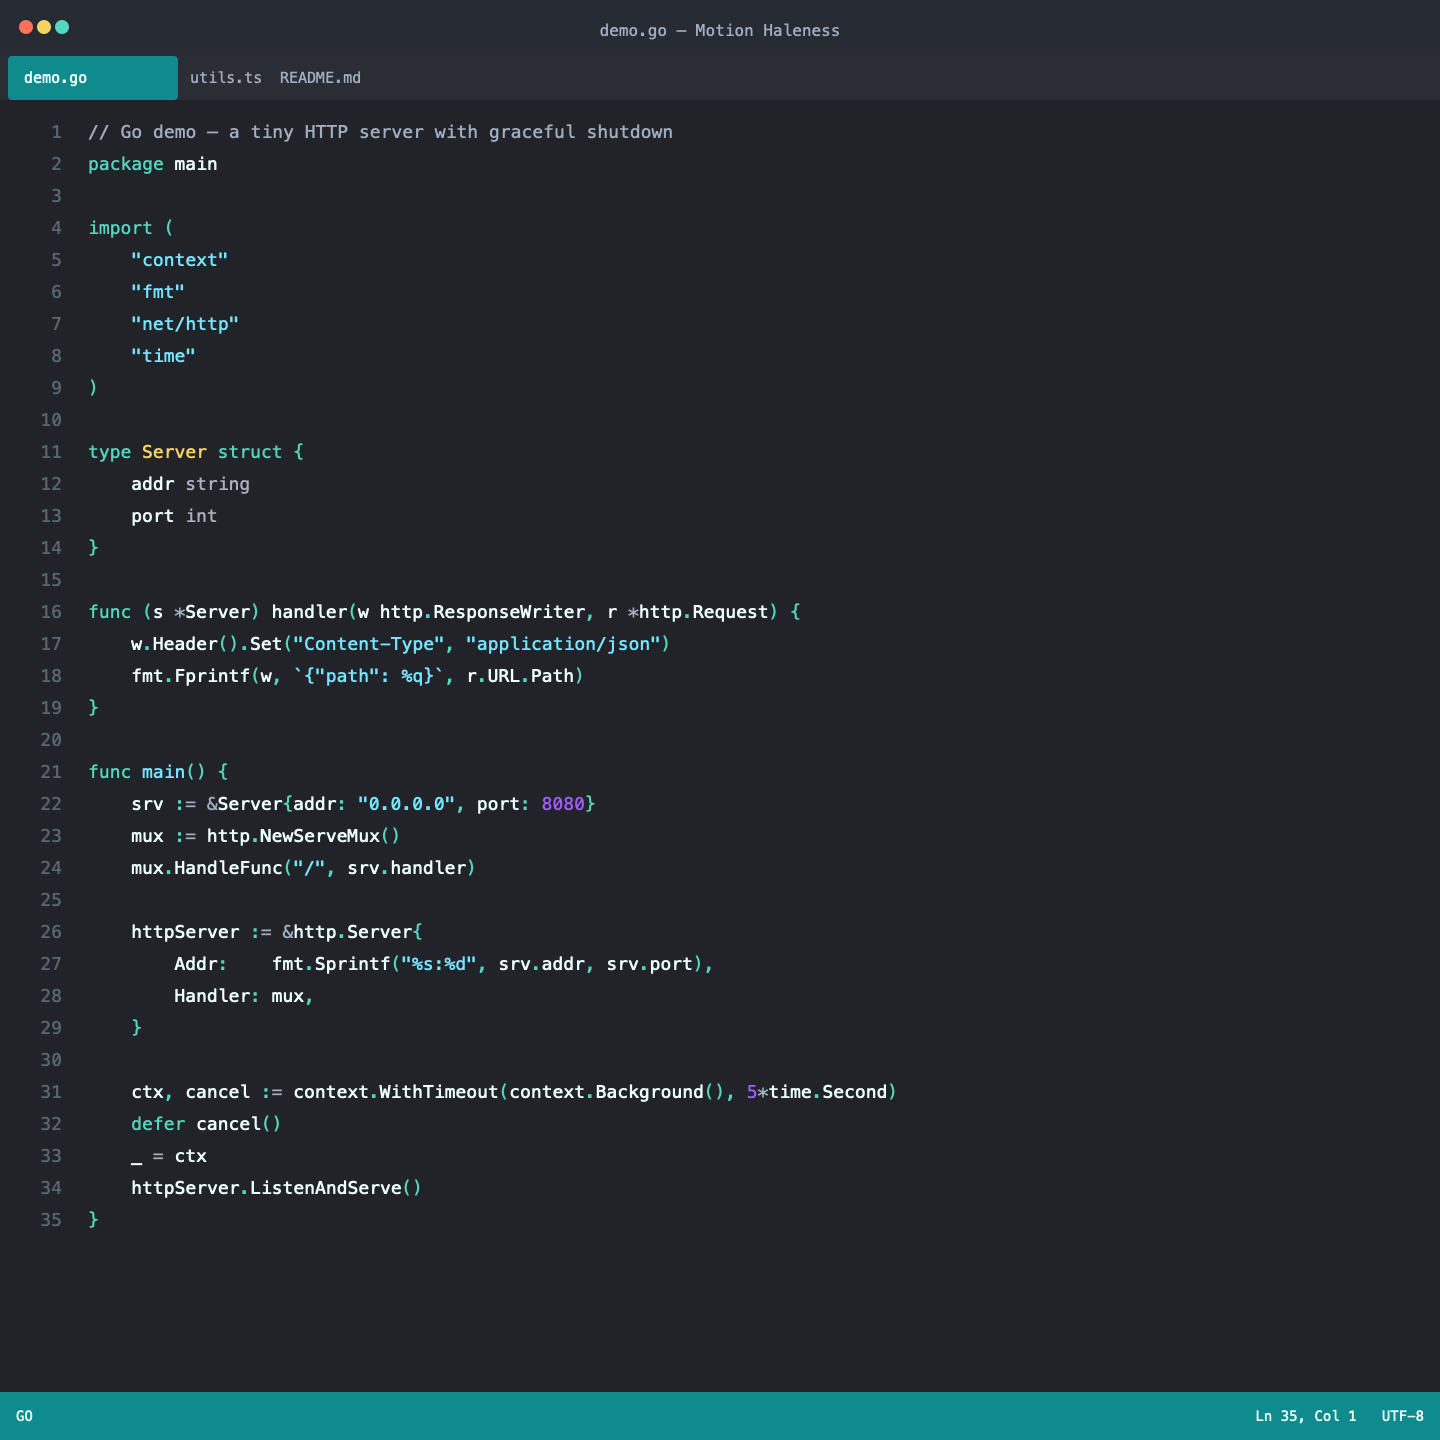
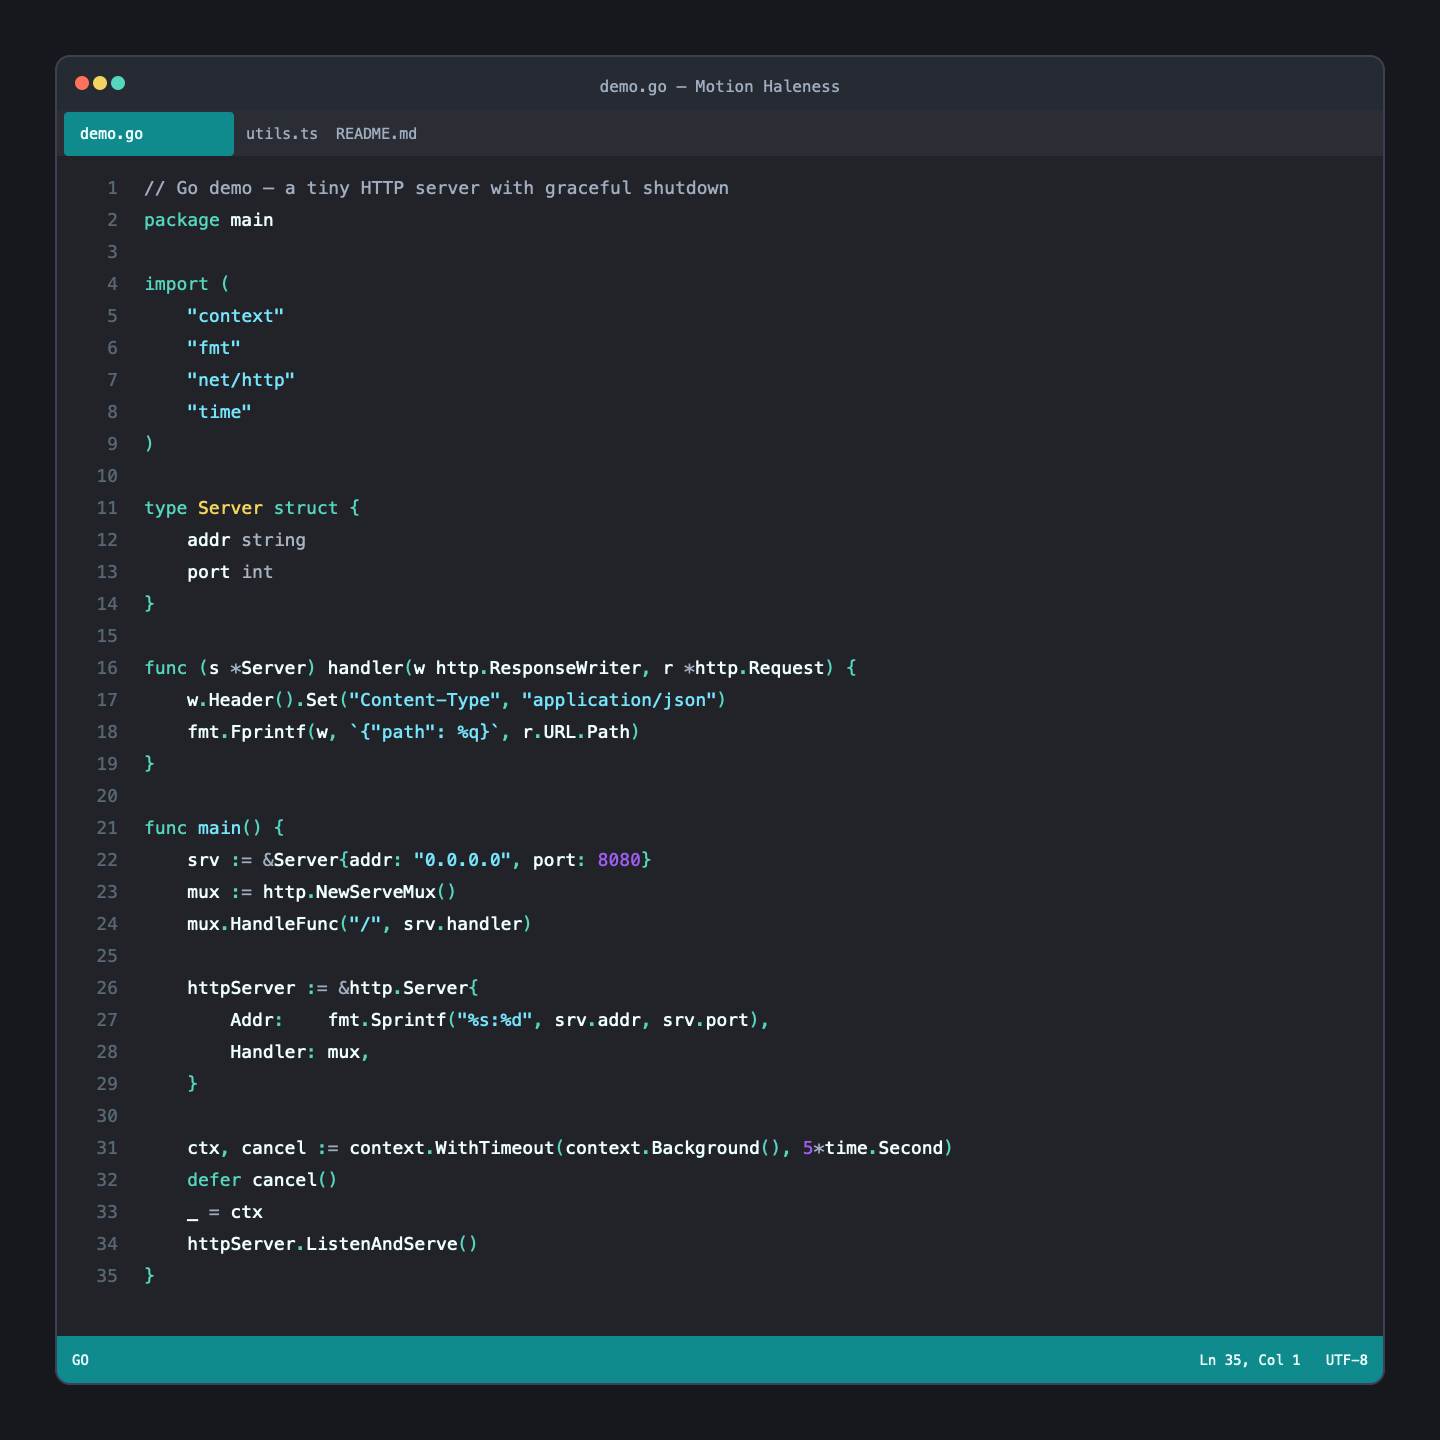
rounded window corners and spacing in screenshots

diff --git a/scripts/generate-screenshots.js b/scripts/generate-screenshots.js
@@ -164,47 +164,56 @@ function buildSvg(langLabel, fileName, code) {
   }
   lines.push(line);
 
+  const PAD = 56;
+  const RADIUS = 14;
+  const winX = PAD;
+  const winY = PAD;
+  const winW = W - 2 * PAD;
+  const winH = H - 2 * PAD;
   const tabBarH = 46;
   const titleBarH = 54;
   const editorY = titleBarH + tabBarH;
   const lineH = 32;
   const fontSize = 18;
-  const codeX = 88;
-  const gutterX = 62;
+  const codeX = winX + 88;
+  const gutterX = winX + 62;
 
   const parts = [];
   parts.push(`<svg xmlns="http://www.w3.org/2000/svg" width="${W}" height="${H}">`);
+  parts.push(`<defs><clipPath id="win"><rect x="${winX}" y="${winY}" width="${winW}" height="${winH}" rx="${RADIUS}"/></clipPath></defs>`);
+  parts.push(`<rect width="${W}" height="${H}" fill="#16181d"/>`);
+  parts.push(`<g clip-path="url(#win)">`);
 
   // title bar
-  parts.push(`<rect width="${W}" height="${titleBarH}" fill="#262A33"/>`);
+  parts.push(`<rect x="${winX}" y="${winY}" width="${winW}" height="${titleBarH}" fill="#262A33"/>`);
   for (const [i, col] of ["#FF715B", "#F4D35E", "#55D6BE"].entries()) {
-    parts.push(`<circle cx="${26 + i * 18}" cy="27" r="7" fill="${col}"/>`);
+    parts.push(`<circle cx="${winX + 26 + i * 18}" cy="${winY + 27}" r="7" fill="${col}"/>`);
   }
   parts.push(
-    `<text x="${W / 2}" y="36" fill="#a0aec0" font-family="${FONT}" font-size="16" text-anchor="middle">${escapeXml(fileName)} &#8212; Motion Haleness</text>`
+    `<text x="${W / 2}" y="${winY + 36}" fill="#a0aec0" font-family="${FONT}" font-size="16" text-anchor="middle">${escapeXml(fileName)} &#8212; Motion Haleness</text>`
   );
 
   // tab bar
-  parts.push(`<rect y="${titleBarH}" width="${W}" height="${tabBarH}" fill="#2b2d34"/>`);
-  parts.push(`<rect x="8" y="${titleBarH + 2}" width="170" height="${tabBarH - 2}" fill="#0F8B8D" rx="4"/>`);
+  parts.push(`<rect x="${winX}" y="${winY + titleBarH}" width="${winW}" height="${tabBarH}" fill="#2b2d34"/>`);
+  parts.push(`<rect x="${winX + 8}" y="${winY + titleBarH + 2}" width="170" height="${tabBarH - 2}" fill="#0F8B8D" rx="4"/>`);
   parts.push(
-    `<text x="24" y="${titleBarH + tabBarH / 2 + 6}" fill="#EEFFFF" font-family="${FONT}" font-size="15">${escapeXml(fileName)}</text>`
+    `<text x="${winX + 24}" y="${winY + titleBarH + tabBarH / 2 + 6}" fill="#EEFFFF" font-family="${FONT}" font-size="15">${escapeXml(fileName)}</text>`
   );
   parts.push(
-    `<text x="190" y="${titleBarH + tabBarH / 2 + 6}" fill="#a0aec0" font-family="${FONT}" font-size="15">utils.ts</text>`
+    `<text x="${winX + 190}" y="${winY + titleBarH + tabBarH / 2 + 6}" fill="#a0aec0" font-family="${FONT}" font-size="15">utils.ts</text>`
   );
   parts.push(
-    `<text x="280" y="${titleBarH + tabBarH / 2 + 6}" fill="#a0aec0" font-family="${FONT}" font-size="15">README.md</text>`
+    `<text x="${winX + 280}" y="${winY + titleBarH + tabBarH / 2 + 6}" fill="#a0aec0" font-family="${FONT}" font-size="15">README.md</text>`
   );
 
   // editor background
-  parts.push(`<rect y="${editorY}" width="${W}" height="${H - editorY}" fill="#212329"/>`);
+  parts.push(`<rect x="${winX}" y="${winY + editorY}" width="${winW}" height="${winH - editorY}" fill="#212329"/>`);
 
   // line numbers + code
   const CHAR_W = fontSize * 0.6;
   const charWidth = (t) => [...t].reduce((n, ch) => n + (ch === "\t" ? 4 : 1), 0);
   lines.forEach((runs, i) => {
-    const y = editorY + 38 + i * lineH;
+    const y = winY + editorY + 38 + i * lineH;
     parts.push(
       `<text x="${gutterX}" y="${y}" fill="#576773" font-family="${FONT}" font-size="${fontSize}" text-anchor="end">${i + 1}</text>`
     );
@@ -232,15 +241,17 @@ function buildSvg(langLabel, fileName, code) {
   });
 
   // status bar
-  const sbY = H - 48;
-  parts.push(`<rect y="${sbY}" width="${W}" height="${48}" fill="#0F8B8D"/>`);
+  const sbY = winY + winH - 48;
+  parts.push(`<rect x="${winX}" y="${sbY}" width="${winW}" height="${48}" fill="#0F8B8D"/>`);
   parts.push(
-    `<text x="16" y="${sbY + 29}" fill="#EEFFFF" font-family="${FONT}" font-size="14">${langLabel.toUpperCase()}</text>`
+    `<text x="${winX + 16}" y="${sbY + 29}" fill="#EEFFFF" font-family="${FONT}" font-size="14">${langLabel.toUpperCase()}</text>`
   );
   parts.push(
-    `<text x="${W - 16}" y="${sbY + 29}" fill="#EEFFFF" font-family="${FONT}" font-size="14" text-anchor="end">Ln ${lines.length}, Col 1 &#160; UTF-8</text>`
+    `<text x="${winX + winW - 16}" y="${sbY + 29}" fill="#EEFFFF" font-family="${FONT}" font-size="14" text-anchor="end">Ln ${lines.length}, Col 1 &#160; UTF-8</text>`
   );
 
+  parts.push(`</g>`);
+  parts.push(`<rect x="${winX}" y="${winY}" width="${winW}" height="${winH}" rx="${RADIUS}" fill="none" stroke="#3a4150" stroke-width="2"/>`);
   parts.push("</svg>");
   return parts.join("\n");
 }
